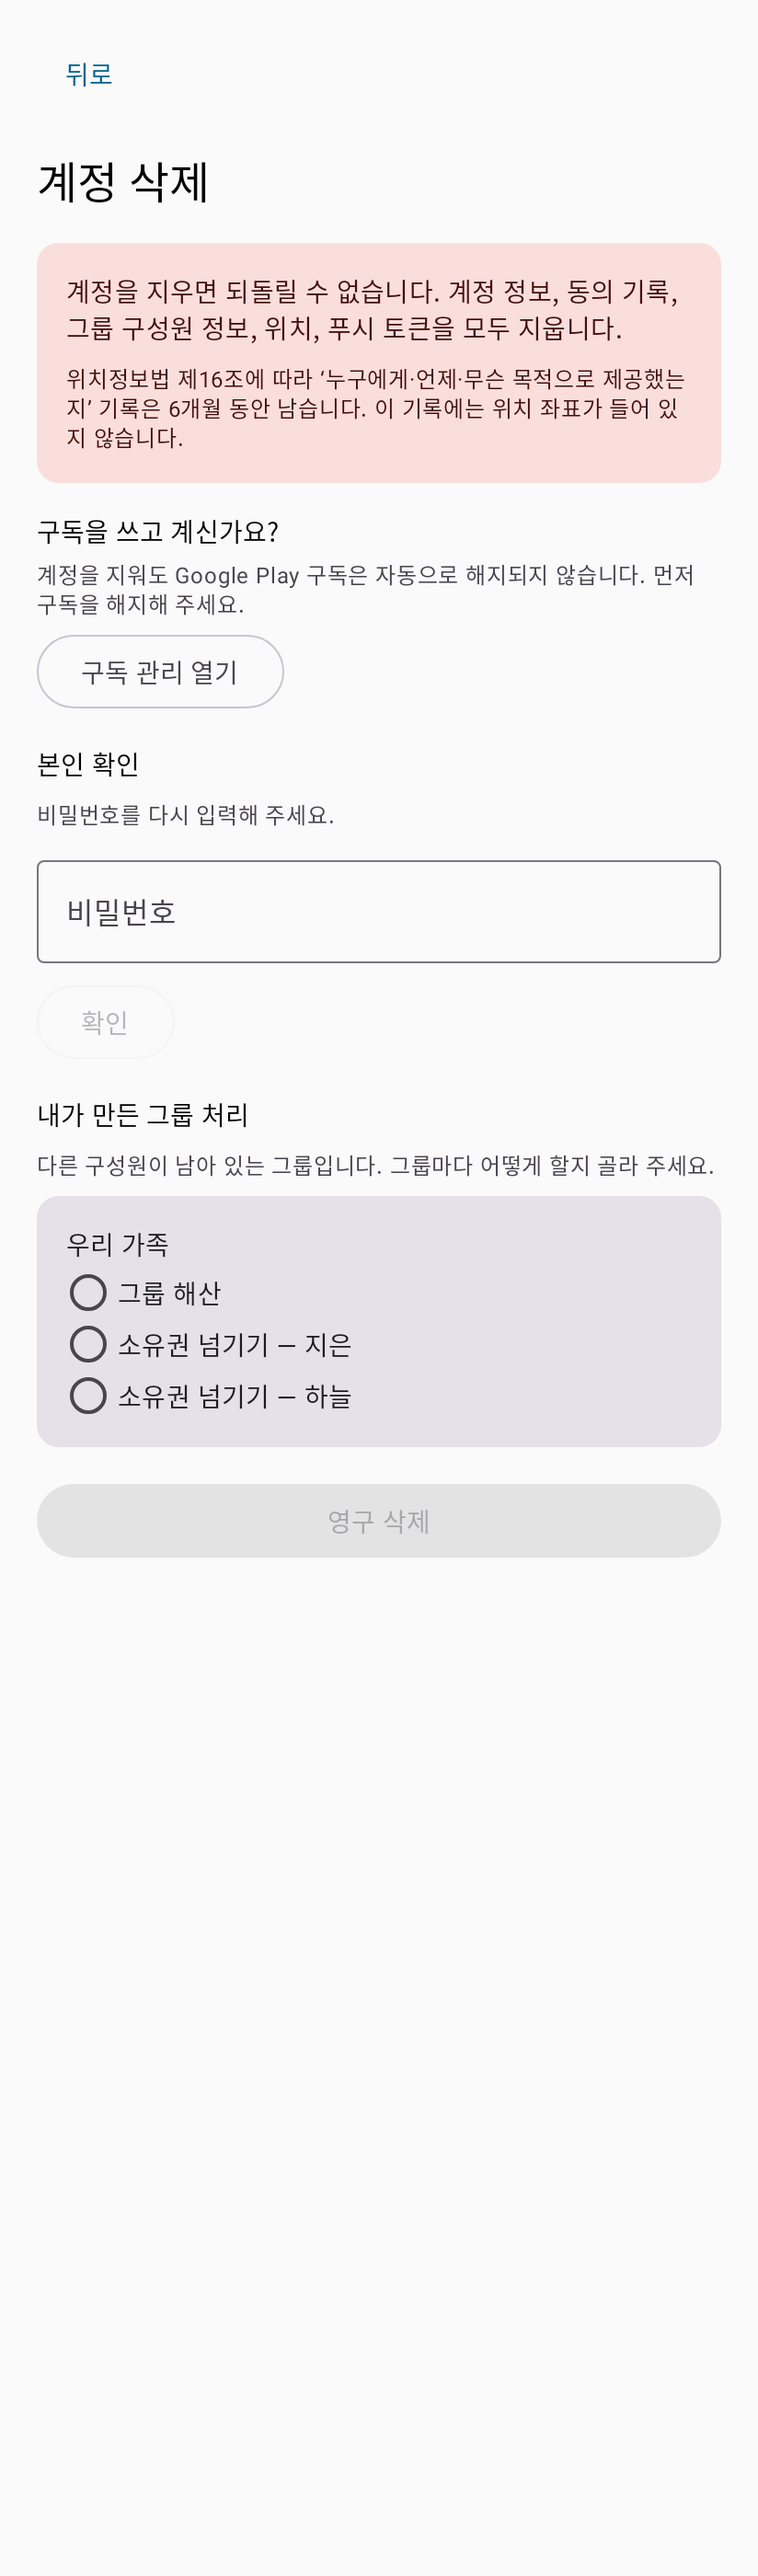
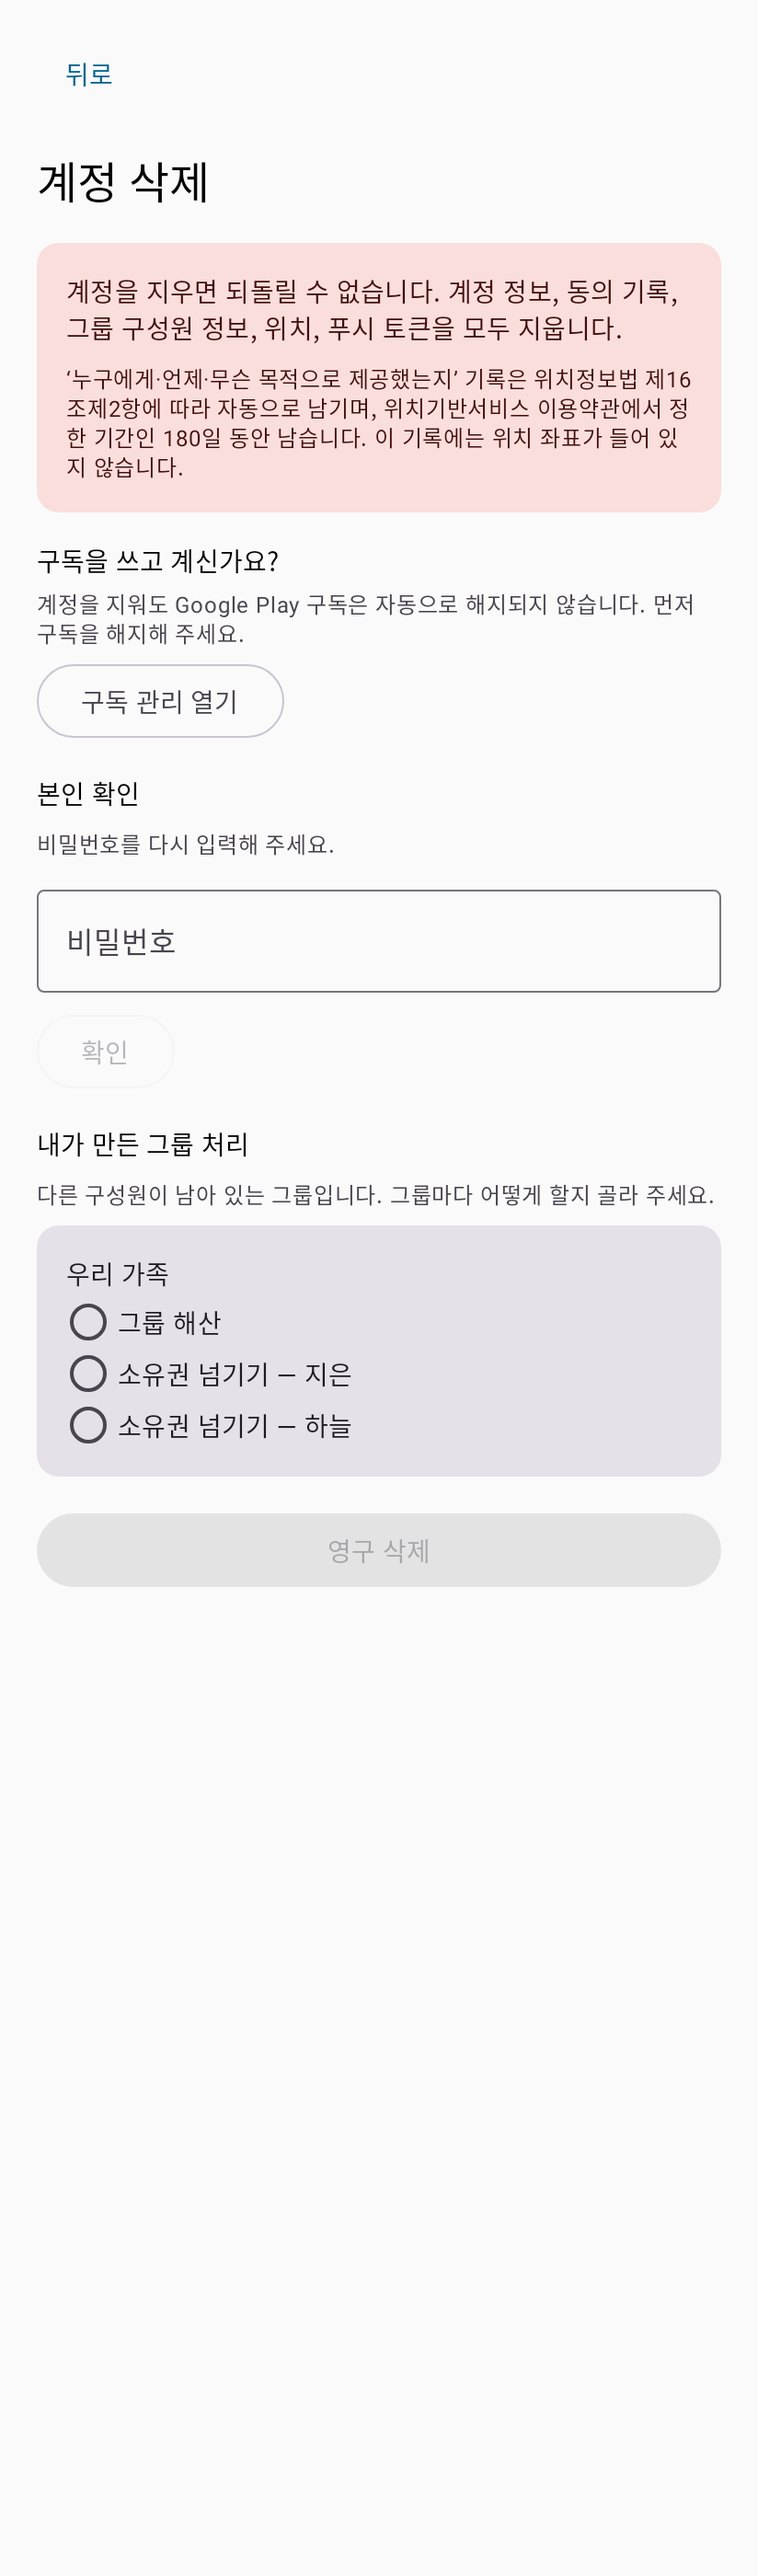
docs: 확인자료의 보유 근거와 보유 기간을 나눠 적도록 정정
위치정보법 제16조제2항은 수집·이용·제공 사실 확인자료를 자동으로 기록·보존하라고만
정하고 **보존 기간은 정하지 않는다**(시행령 2026-02-10 시행본에도 없다). 기간은
제18조①4호·제19조①4호에 따라 약관에 적는 사항이다. 그런데 2단계 초안과 계정 삭제
화면이 '제16조에 따라 6개월 보관'이라고 적어 법에 없는 기간을 법 근거로 제시했다.

- 근거(제16조②에 따른 자동 기록)와 기간(약관으로 정한 180일)을 모든 문서에서 나눠 적는다.
- 기간 표기를 '6개월' 에서 '180일'로 맞췄다. 코드가 지우는 기준이 180일이라서,
  약관·처리방침·계정 삭제 안내·화면이 전부 같은 숫자를 말하게 된다.
- 화면 문구의 일수는 ProvisionRecordRepository.RETENTION_MILLIS 에서 받아 간다.
  계정 삭제 화면도 제공 기록 화면과 같은 상수를 쓴다(전에는 문구에 6개월이 박혀 있었다).
- 처리방침에 위치정보법 제21조의2 항목(개인위치정보·확인자료의 처리 목적, 보유 기간,
  보유 근거, 파기, 제3자 제공)을 표로 정리했다.
- 4단계 devlog 의 같은 오류에 정정 표시를 달았다.

Changed region(s): [[0.0303, 0.1243, 0.9709, 0.6214]]

diff --git a/app/src/main/kotlin/io/github/ndrcb5210max/ansimlink/data/share/ProvisionRecordRepository.kt b/app/src/main/kotlin/io/github/ndrcb5210max/ansimlink/data/share/ProvisionRecordRepository.kt
@@ -5,10 +5,18 @@ import kotlinx.coroutines.flow.Flow
 /**
  * 내 위치 제공 기록 저장소(기기 안).
  *
- * 보관 기간을 [RETENTION_MILLIS] 로 둔 근거: 위치정보법 제16조②는 위치정보사업자가
- * '위치정보 수집·이용·제공사실 확인자료'를 **6개월 이상** 보관하도록 한다. 그 보관 의무는
- * 사업자(서버)에게 있고 서버 쪽 기록은 Firestore 에 따로 남는다. 기기 안 기록은
- * 사용자가 보기 위한 사본이라 같은 6개월로 맞췄다.
+ * 보관 기간을 [RETENTION_MILLIS] 로 둔 근거. **근거와 기간을 나눠서 본다.**
+ *
+ * - 근거: 위치정보법 제16조②는 '위치정보 수집·이용·제공사실 확인자료'를 자동으로
+ *   기록·보존하도록 한다. **기간은 정하지 않는다**(시행령 2026-02-10 시행본에도 없다).
+ * - 기간: 제18조①4호·제19조①4호에 따라 **약관으로 정하는 사항**이다. 약관
+ *   (docs/legal/location-terms.md 제6조)에 180일로 적었고 이 상수가 그 숫자다.
+ *
+ * 보존 의무는 사업자(서버)에게 있고 서버 쪽 기록은 Firestore 에 따로 남는다. 기기 안
+ * 기록은 사용자가 보기 위한 사본이라 약관과 같은 기간으로 맞췄다.
+ *
+ * 이 상수를 고치면 약관·처리방침·계정 삭제 안내의 숫자도 같이 고쳐야 한다. 화면 문구는
+ * 이 상수에서 일수를 받아 가므로(ProvisionLogScreen, DeleteAccountScreen) 저절로 따라온다.
  *
  * **좌표는 담지 않는다**([ProvisionRecordEntity] 주석 참고).
  */
@@ -63,7 +71,7 @@ class ProvisionRecordRepository(
         /** 제공 기록 화면이 보여 주는 건수. */
         const val RECENT_LIMIT = 100
 
-        /** 보관 기간 6개월(위치정보법 제16조② 기준에 맞춤). */
+        /** 보관 기간 180일. 약관(docs/legal/location-terms.md 제6조)에서 정한 기간이다. */
         const val RETENTION_MILLIS: Long = 180L * 24 * 60 * 60 * 1000
     }
 }

diff --git a/app/src/main/kotlin/io/github/ndrcb5210max/ansimlink/ui/settings/DeleteAccountScreen.kt b/app/src/main/kotlin/io/github/ndrcb5210max/ansimlink/ui/settings/DeleteAccountScreen.kt
@@ -36,6 +36,7 @@ import io.github.ndrcb5210max.ansimlink.data.model.AnsimGroup
 import io.github.ndrcb5210max.ansimlink.data.model.GroupMember
 import io.github.ndrcb5210max.ansimlink.data.model.GroupWithMembers
 import io.github.ndrcb5210max.ansimlink.data.model.SignedInUser
+import io.github.ndrcb5210max.ansimlink.data.share.ProvisionRecordRepository
 import io.github.ndrcb5210max.ansimlink.ui.common.ErrorCard
 import io.github.ndrcb5210max.ansimlink.ui.common.ServerNotConfiguredCard
 import io.github.ndrcb5210max.ansimlink.ui.theme.AnsimLinkTheme
@@ -91,7 +92,7 @@ fun DeleteAccountScreen(
                     style = MaterialTheme.typography.bodyMedium,
                 )
                 Text(
-                    text = stringResource(R.string.account_delete_retained),
+                    text = stringResource(R.string.account_delete_retained, RETENTION_DAYS),
                     style = MaterialTheme.typography.bodySmall,
                 )
             }
@@ -162,6 +163,12 @@ fun DeleteAccountScreen(
         }
     }
 }
+
+// 확인자료 보유 기간을 '일' 단위로 보여 준다. 숫자는 저장소 상수 하나에서만 온다.
+// 이 화면·제공 기록 화면·약관·처리방침이 같은 기간을 말해야 하기 때문이다
+// (ProvisionLogScreen 의 같은 상수, docs/legal/location-terms.md 제6조).
+private val RETENTION_DAYS: Int =
+    (ProvisionRecordRepository.RETENTION_MILLIS / (24L * 60 * 60 * 1000)).toInt()
 
 @Composable
 private fun ReauthenticationSection(

diff --git a/app/src/main/kotlin/io/github/ndrcb5210max/ansimlink/ui/share/ProvisionLogScreen.kt b/app/src/main/kotlin/io/github/ndrcb5210max/ansimlink/ui/share/ProvisionLogScreen.kt
@@ -29,9 +29,9 @@ import io.github.ndrcb5210max.ansimlink.ui.theme.AnsimLinkTheme
  * 위치정보법 제19조③은 위치정보를 제3자에게 제공할 때마다 '누구에게·언제·무슨 목적으로'
  * 제공했는지 즉시 알리고 그 내역을 확인할 수 있게 하라고 한다. 이 화면이 그 '확인'이다.
  *
- * **좌표는 보여 주지 않는다. 애초에 저장하지 않는다.** 제공 내역은 6개월 남아야 하는데
- * (제16조②) 좌표는 24시간 뒤 지워야 하므로(CLAUDE.md 원칙 4) 같은 자리에 둘 수 없다.
- * 그 사실을 화면 머리말에 적어 둔다.
+ * **좌표는 보여 주지 않는다. 애초에 저장하지 않는다.** 제공 내역은 약관에서 정한 기간
+ * (180일) 동안 남아야 하는데 좌표는 24시간 뒤 지워야 하므로(CLAUDE.md 원칙 4) 같은 자리에
+ * 둘 수 없다. 그 사실을 화면 머리말에 적어 둔다.
  */
 @Composable
 fun ProvisionLogScreen(
@@ -77,7 +77,8 @@ fun ProvisionLogScreen(
     }
 }
 
-/** 보관 기간을 '일' 단위로 보여 준다. */
+// 보관 기간을 '일' 단위로 보여 준다. 숫자는 저장소 상수 하나에서만 온다
+// (계정 삭제 화면도 같은 상수를 쓴다).
 private val RETENTION_DAYS: Int =
     (ProvisionRecordRepository.RETENTION_MILLIS / (24L * 60 * 60 * 1000)).toInt()
 

diff --git a/docs/legal/privacy-policy.md b/docs/legal/privacy-policy.md
@@ -42,13 +42,36 @@
 | 계정 정보 | 회원 탈퇴 즉시 삭제 |
 | 그룹·구성원 정보 | 그룹 탈퇴 또는 그룹 해산 즉시 삭제 |
 | **위치 정보** | **공유 세션 동안만 저장. 세션 종료 시 구성원별 마지막 1건만 남기고 그 1건도 24시간 뒤 삭제** |
-| 위치정보 수집·이용·제공 사실 확인자료 | **6개월** (위치정보법 제16조 제2항) |
+| 위치정보 수집·이용·제공 사실 확인자료 | **180일**(약 6개월) — 보유 근거와 기간은 아래 설명 참고 |
 | 동의 기록 | 회원 탈퇴 시까지 |
 | 푸시 토큰 | 회원 탈퇴 또는 토큰 만료 시 삭제 |
 
-위치정보법 제16조 제2항에 따라 위치정보 수집·이용·제공 사실 확인자료는 개인위치정보 자체와
-별도로 **6개월 이상** 보관합니다. 이 자료에는 위치 좌표가 아니라 "누구에게, 언제, 무슨 목적으로
-제공했는지"만 남습니다.
+### 개인위치정보 처리에 관한 사항 (위치정보법 제21조의2)
+
+**가. 개인위치정보(좌표)**
+
+| 구분 | 내용 |
+| --- | --- |
+| 처리 목적 | 재난문자가 감지된 뒤 이용자가 시작한 공유 세션 동안, 같은 안심 그룹 구성원에게 이용자의 위치를 제공 |
+| 보유 기간 | 공유 세션 동안만 보관. 세션이 끝나면 마지막 1건만 남기고 그 1건도 **24시간 뒤** 삭제 |
+| 파기 | 위 기간이 지나면 자동 삭제. 동의를 철회하거나 일시중지하면 남은 마지막 위치까지 **즉시** 삭제 |
+| 제3자 제공 | 이용자가 동의한 안심 그룹의 구성원에게만 제공(아래 4항). 그 밖의 제3자에게 제공하지 않음 |
+
+**나. 위치정보 수집·이용·제공 사실 확인자료**
+
+| 구분 | 내용 |
+| --- | --- |
+| 처리 목적 | 이용자가 "내 위치가 누구에게·언제·무슨 목적으로 제공됐는지"를 확인할 수 있게 하고(제24조 제1항), 분쟁이 생겼을 때 사실을 확인하기 위함 |
+| 보유 근거 | 위치정보법 **제16조 제2항** — 회사는 확인자료를 자동으로 기록·보존합니다 |
+| 보유 기간 | **180일**(약 6개월). 위치정보법 제18조 제1항 제4호·제19조 제1항 제4호에 따라 **위치기반서비스 이용약관**으로 정한 기간입니다 |
+| 파기 | 보유 기간이 지나면 지체 없이 파기합니다. 회원 탈퇴 시에도 이 자료는 위 기간까지 남습니다 |
+| 제3자 제공 | 확인자료 자체는 제3자에게 제공하지 않습니다 |
+
+이 자료에는 **위치 좌표가 들어 있지 않습니다.** "누구에게, 언제, 무슨 목적으로 제공했는지"만
+남습니다. 개인위치정보(좌표)와 보유 기간이 다르기 때문에 애초에 다른 곳에 나눠 저장합니다.
+
+> 위치정보법 제16조 제2항은 확인자료를 **자동으로 기록·보존하라고만** 정하고 있고 보존 기간은
+> 정하지 않습니다. 그래서 근거(제16조 제2항)와 기간(약관으로 정한 180일)을 나눠 적었습니다.
 
 ## 4. 개인정보의 제3자 제공
 

diff --git a/docs/legal/location-terms.md b/docs/legal/location-terms.md
@@ -58,8 +58,17 @@
 1. 개인위치정보는 **공유 세션 동안만** 보관합니다.
 2. 세션이 끝나면 구성원별 **마지막 위치 1건만** 남기고 나머지는 삭제하며, 남은 1건도 **24시간 뒤**
    자동으로 삭제합니다.
-3. 위치정보법 제16조 제2항에 따라 **위치정보 수집·이용·제공 사실 확인자료**(위치 좌표가 아니라
-   "누구에게·언제·무슨 목적으로" 기록)는 **6개월** 보관한 뒤 파기합니다.
+3. **위치정보 수집·이용·제공 사실 확인자료**(위치 좌표가 아니라 "누구에게·언제·무슨 목적으로"
+   제공했는지의 기록)에 대하여,
+   - **보유 근거**: 회사는 위치정보법 제16조 제2항에 따라 이 자료를 자동으로 기록·보존합니다.
+   - **보유 기간**: 위치정보법 제18조 제1항 제4호·제19조 제1항 제4호에 따라 이 약관으로 정하며,
+     **180일**(약 6개월)로 합니다.
+   - **파기**: 보유 기간이 지나면 지체 없이 파기합니다. 이용자가 계정을 삭제하더라도 이 자료는
+     위 기간까지 남습니다(이 자료에는 위치 좌표가 들어 있지 않습니다).
+
+   > 위치정보법 제16조 제2항은 확인자료를 **자동으로 기록·보존하라고만** 정하고 있고 보존 기간은
+   > 정하지 않습니다. 기간을 법에서 정한 것처럼 적지 않기 위해 근거와 기간을 나눠 적었습니다.
+   > 앱 화면(설정 > 내 위치 제공 기록, 계정 삭제)도 같은 기간을 보여 줍니다.
 
 ## 제7조 (이용자의 권리와 행사 방법)
 

diff --git a/docs/account-deletion.md b/docs/account-deletion.md
@@ -44,11 +44,15 @@
 
 ## 4. 삭제되지 않고 남는 데이터
 
-| 데이터 | 보유 기간 | 근거 |
+| 데이터 | 보유 근거 | 보유 기간 |
 | --- | --- | --- |
-| 위치정보 수집·이용·제공 **사실 확인자료** (위치 좌표가 아니라 "언제·누구에게·무슨 목적으로 제공했는지" 기록) | **6개월** 후 파기 | 「위치정보의 보호 및 이용 등에 관한 법률」 제16조 제2항 |
+| 위치정보 수집·이용·제공 **사실 확인자료** (위치 좌표가 아니라 "언제·누구에게·무슨 목적으로 제공했는지" 기록) | 「위치정보의 보호 및 이용 등에 관한 법률」 **제16조 제2항**에 따라 자동으로 기록·보존합니다 | **180일**(약 6개월) 후 파기. 같은 법 제18조 제1항 제4호·제19조 제1항 제4호에 따라 [위치기반서비스 이용약관](legal/location-terms.md) 제6조로 정한 기간입니다 |
 
 이 기록에는 위치 좌표가 들어 있지 않습니다.
+
+> 위치정보법 제16조 제2항은 확인자료를 **자동으로 기록·보존하라고만** 정하고 있고 보존 기간은
+> 정하지 않습니다. 그래서 근거(제16조 제2항)와 기간(약관으로 정한 180일)을 나눠 적었습니다.
+> 앱 안의 계정 삭제 화면과 '내 위치 제공 기록' 화면도 같은 기간을 보여 줍니다.
 
 ## 5. 유료 구독을 이용 중이라면
 

diff --git a/docs/devlog/04-share-message.md b/docs/devlog/04-share-message.md
@@ -85,6 +85,11 @@ if (targets.isEmpty()) {
 뒤 지워야 하는데(원칙 4), 제공 내역은 제16조② 때문에 6개월 남아야 한다. 보관 기간이
 다른 두 가지를 같은 자리에 두면 둘 중 하나는 반드시 어긋난다.
 
+> **정정(6단계).** 위 문장의 '제16조② 때문에 6개월'은 틀렸다. 제16조②는 확인자료를
+> 자동으로 기록·보존하라고만 정하고 **기간은 정하지 않는다.** 기간은 제18조①4호·제19조①4호에
+> 따라 약관으로 정하는 사항이다. 지금은 근거(제16조②)와 기간(약관으로 정한 180일)을 나눠
+> 적는다. 자세한 것은 `docs/devlog/06-release-prep.md` 참고.
+
 서버에 쓸 때 **제공 내역을 먼저 쓰고 그 다음에 `sharing.active` 를 켠다.** 순서를
 거꾸로 하면 기록 쓰기가 실패했을 때 '기록 없이 제공되는' 상태가 된다. 반대 순서면
 최악의 경우 '기록은 있는데 제공은 안 된' 상태라 이쪽이 안전하다. 끌 때는 반대로
